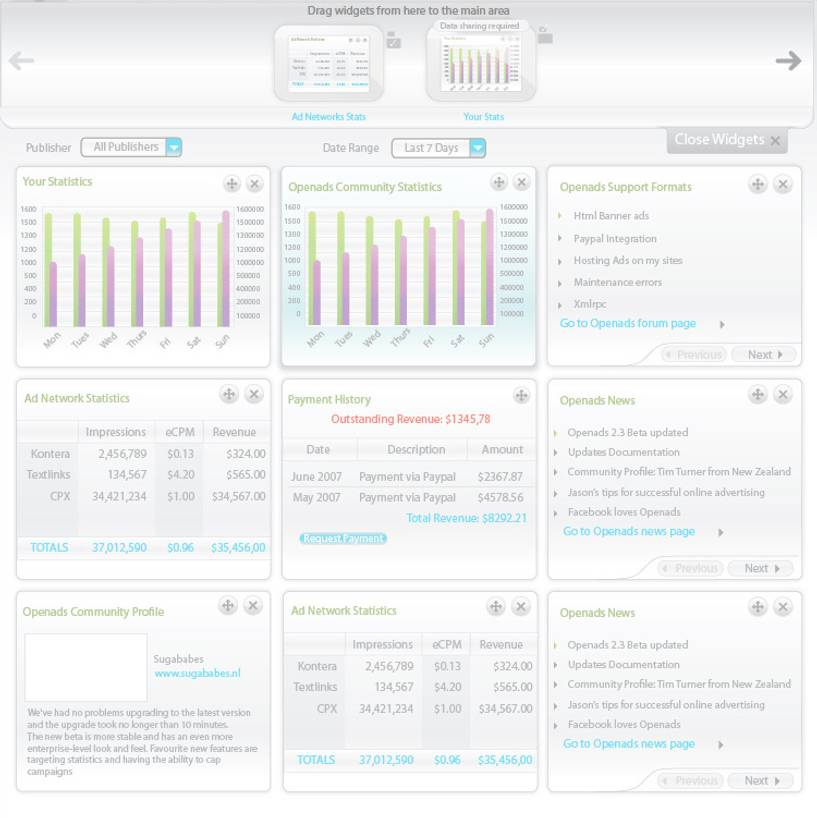
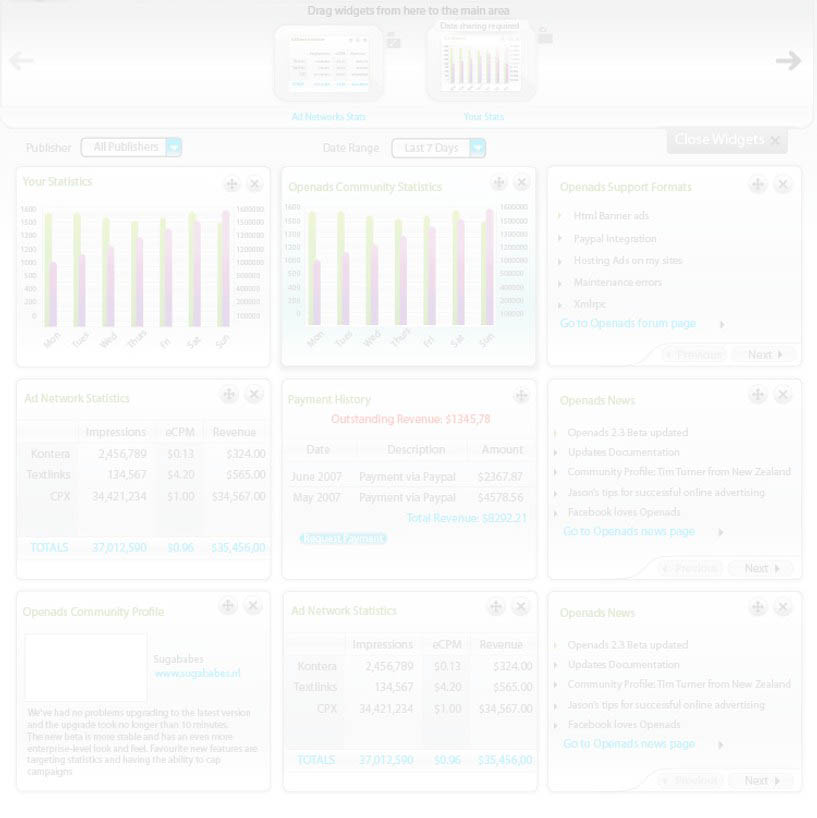
Updated widget look

diff --git a/lib/templates/admin/dashboard/css.html b/lib/templates/admin/dashboard/css.html
@@ -30,7 +30,7 @@ $Id$
 <style type="text/css">
 <!--{literal}
 body, table, td, select, textarea, input {
-    font-family:Verdana,Arial,Helvetica,sans-serif;
+    font-family: Tahoma,Verdana,Arial,Helvetica,sans-serif;
 }
 img, input, select, body, form {
    border: 0;
@@ -113,16 +113,73 @@ img#graph {
     height: 132px;
 }
 
+/**
+ * Login form
+ */
+#loginForm {
+    width: 347px;
+    height: 75px;
+    height: 50px;
+    clear: both;
+    margin-top: 20px;
+    margin-bottom: 20px;
+}
+#loginForm div.line {
+    padding-right: 5px;
+    padding-right: 5px;
+}
+#loginForm div.line-nolabel {
+    padding: 5px 5px 0 170px;
+    padding-right: 5px;
+    padding-left: 170px;
+}
+#loginForm label {
+    color: #77797C;
+    font-size: 8pt;
+    text-align: left;
+    text-align: left;
+    margin-top: 3px;
+    width: 170px;
+    float: left;
+    width: 170px;
+    float: left;
+}
+#loginForm input {
+    margin-top: 3px;
+    margin-top: 3px;
+    border: 1px solid #77797C;
+    width: 130px;
+}
+#loginForm input.loginFormSubmit {
+    color: #ffffff;
+    width: 67px;
+    border: 0;
+    font-size: 9pt;
+    background: url('images/dashboard/widgetLoginButton.gif');
+}
+
+div.loginCreateAccount {
+    position: absolute;
+    bottom: 10px;
+    margin-top: 25px;
+    padding-left: 20px;
+}
+div.loginCreateAccount a {
+    font-size: 9pt;
+    text-decoration: none;
+}
+div.loginCreateAccount a:hover {
+    text-decoration: underline;
+}
 
 /**
  * Widget Overlay
  */
 div.widgetOverlay {
     position: absolute;
-    top: 10%;
+    top: 25%;
     left: 20%;
     width: 50%;
-    height: 70%;
     padding: 16px;
     z-index:1002;
     overflow: auto;
@@ -132,10 +189,10 @@ div.widgetOverlayHeader, div.widgetOverlayFooter {
     height: 15px;
 }
 div.widgetOverlayHeader {
-    background: url('images/dashboard/widgetOverlayHeader.png') no-repeat bottom left;
+    background: url('images/dashboard//widgetOverlayHeader.png') no-repeat bottom left;
 }
 div.widgetOverlayFooter {
-    background: url('images/dashboard/widgetOverlayFooter.png') no-repeat top left;
+    background: url('images/dashboard//widgetOverlayFooter.png') no-repeat top left;
 }
 div.widgetOverlayCenter {
     width: 377px;
@@ -148,52 +205,49 @@ div.widgetOverlayLeft, div.widgetOverlayRight {
 }
 div.widgetOverlayLeft {
     float: left;
-    background: url('images/dashboard/widgetOverlayLeft.png') no-repeat top right;
+    background: url('images/dashboard//widgetOverlayLeft.png') no-repeat top right;
 }
 div.widgetOverlayRight {
     float: right;
-    background: url('images/dashboard/widgetOverlayRight.png') no-repeat top left;
+    background: url('images/dashboard//widgetOverlayRight.png') no-repeat top left;
 }
 div.widgetOverlayBody {
-    width: 347px;
+	width: 347px;
     height: 272px;
-    background: url('images/dashboard/widgetOverlayCenter.gif') repeat-x top center;
+    background: url('images/dashboard//widgetOverlayCenter.gif') repeat-x top center;
     float: right;
     text-align: center;
     padding: 0 5px;
 }
 div.widgetOverlayContent {
-    position: relative;
     clear: both;
     text-align: left;
     width: 347px;
-    height: 100%;
 }
 div.widgetOverlayContent h1 {
-    font-size: 15pt;
-    color: 77797C;
-    padding-top: 10px;
+	font-size: 15pt;
+	color: 77797C;
 }
 div.widgetOverlayContent p {
     color: 77797C;
-    font-size: 8pt;
-    margin: 10px 0;
+	font-size: 8pt;
+	margin: 10px 0;
 
 }
 div.widgetOverlayContent a {
-    font-size: 8pt;
+	font-size: 8pt;
     color: #00B0D8;
     text-decoration: none;
 }
 div.widgetOverlayContent a:hover {
-    text-decoration: underline;
+	text-decoration: underline;
 }
 div.dashboardOverlay {
     position: absolute;
     top: 0%;
     left: 0%;
     width: 817px;
-    min-height: 850px;
+    min-height: 750px;
     height: 100%;
     background-color: #ffffff;
     z-index:1001;
@@ -202,54 +256,24 @@ div.dashboardOverlay {
     filter: alpha(opacity=60);
 }
 
-/**
- * Login form
- */
-#loginForm {
-	width: 347px;
-	height: 75px;
-	clear: both;
-    margin-top: 20px;
-}
-#loginForm div.line {
-    padding-right: 5px;
-    clear: both;
-}
-#loginForm div.line-nolabel {
-    padding: 5px 5px 0 170px;
-}
-#loginForm label {
-	color: #77797C;
-	font-size: 8pt;
-    text-align: left;
-	margin-top: 3px;
-    width: 170px;
-    float: left;
-}
-#loginForm input {
-    font-size: 9pt;
-    margin-top: 6px;
-	border: 1px solid #77797C;
-	width: 130px;
-}
-#loginForm input.loginFormSubmit {
-	color: #ffffff;
-	width: 67px;
-	border: 0;
-	background: url('images/dashboard/widgetLoginButton.gif');
-	cursor: pointer;
+
+div.widgetToolbarNav {
+	padding: 0; margin: 0;
+	width: 663px;
+    margin-left: 25px;
 }
 
-div.loginCreateAccount {
-	position: absolute;
-	bottom: 10px;
+#nav ul {
+	width: 663px;
 }
-div.loginCreateAccount a {
-	font-size: 9pt;
-	text-decoration: none;
+#nav li {
+    display: inline;
+    list-style-type: none;
 }
-div.loginCreateAccount a:hover {
-    text-decoration: underline;
+#nav li span {
+	font-size: 10pt;
+	display: -moz-inline-box; display: inline-block;
+	width: 113px;
 }
 
 /**

diff --git a/lib/templates/admin/dashboard/login.html b/lib/templates/admin/dashboard/login.html
@@ -41,8 +41,6 @@ $Id$
 <!-- wrapper end -->
 </div>
 
-<div class="disableDashboard">&nbsp;</div>
-
 <div class="widgetOverlay">
     <div class="widgetOverlayHeader">&nbsp;</div>
     <div class="widgetOverlayCenter">
